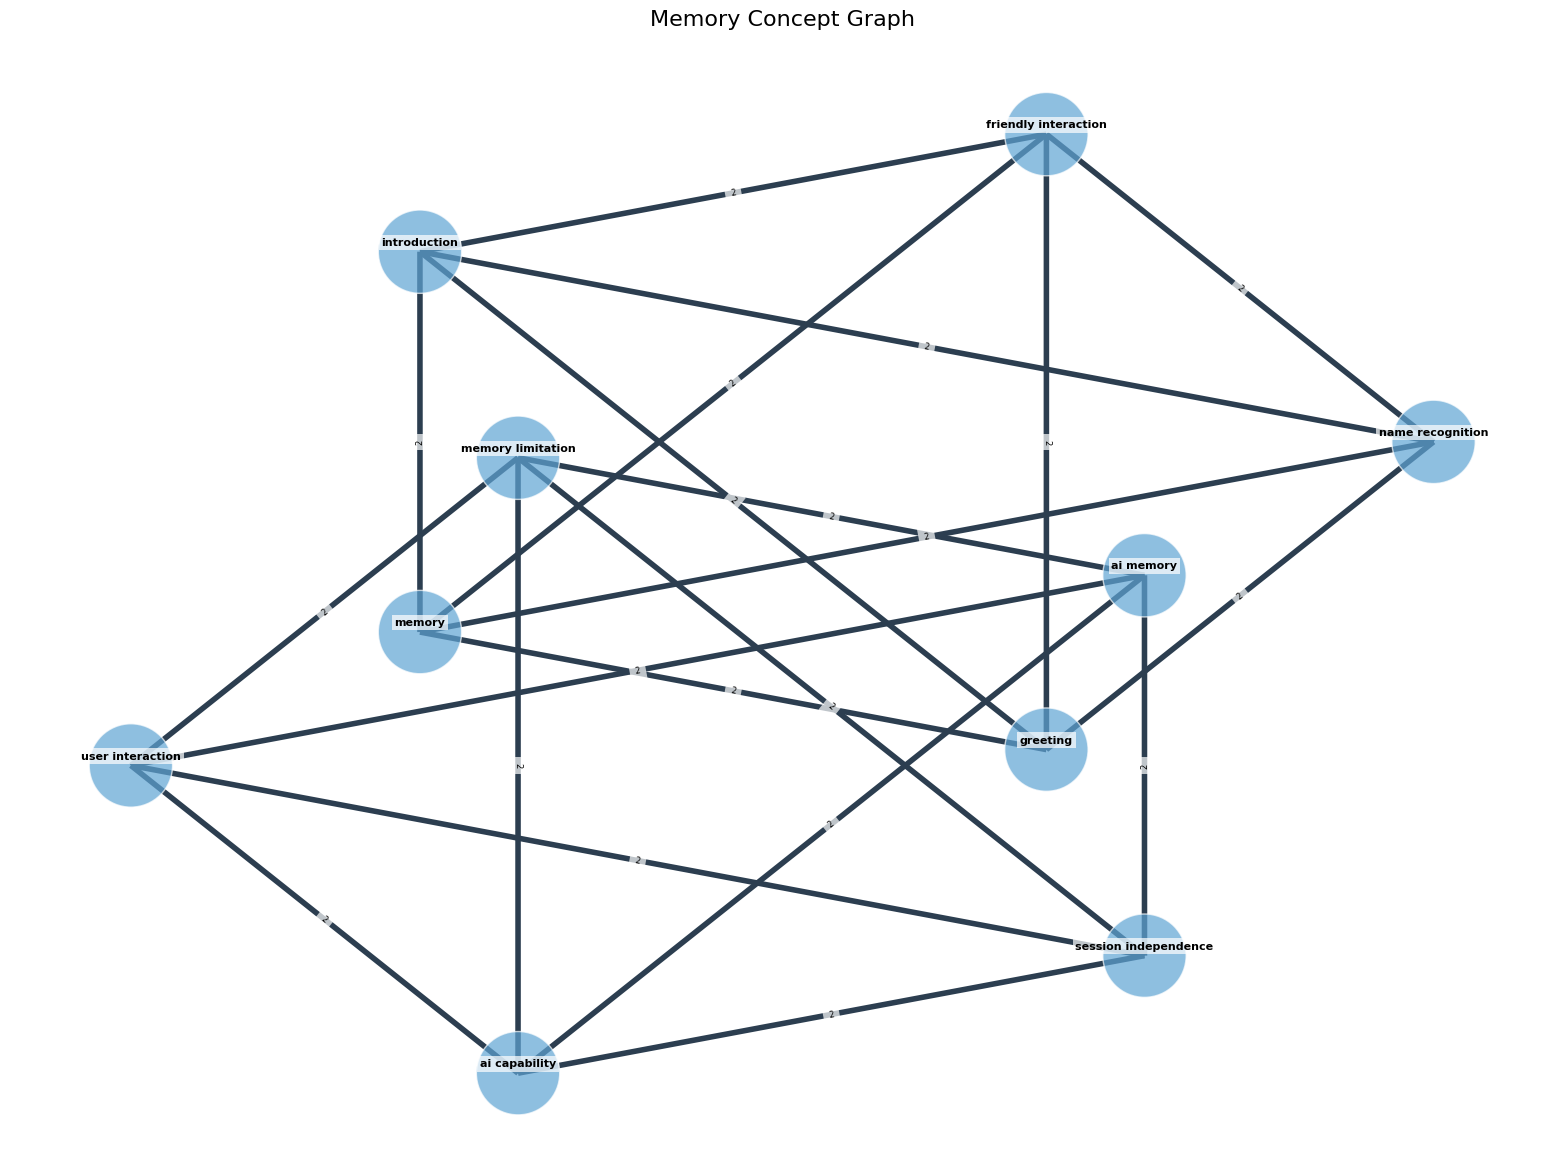
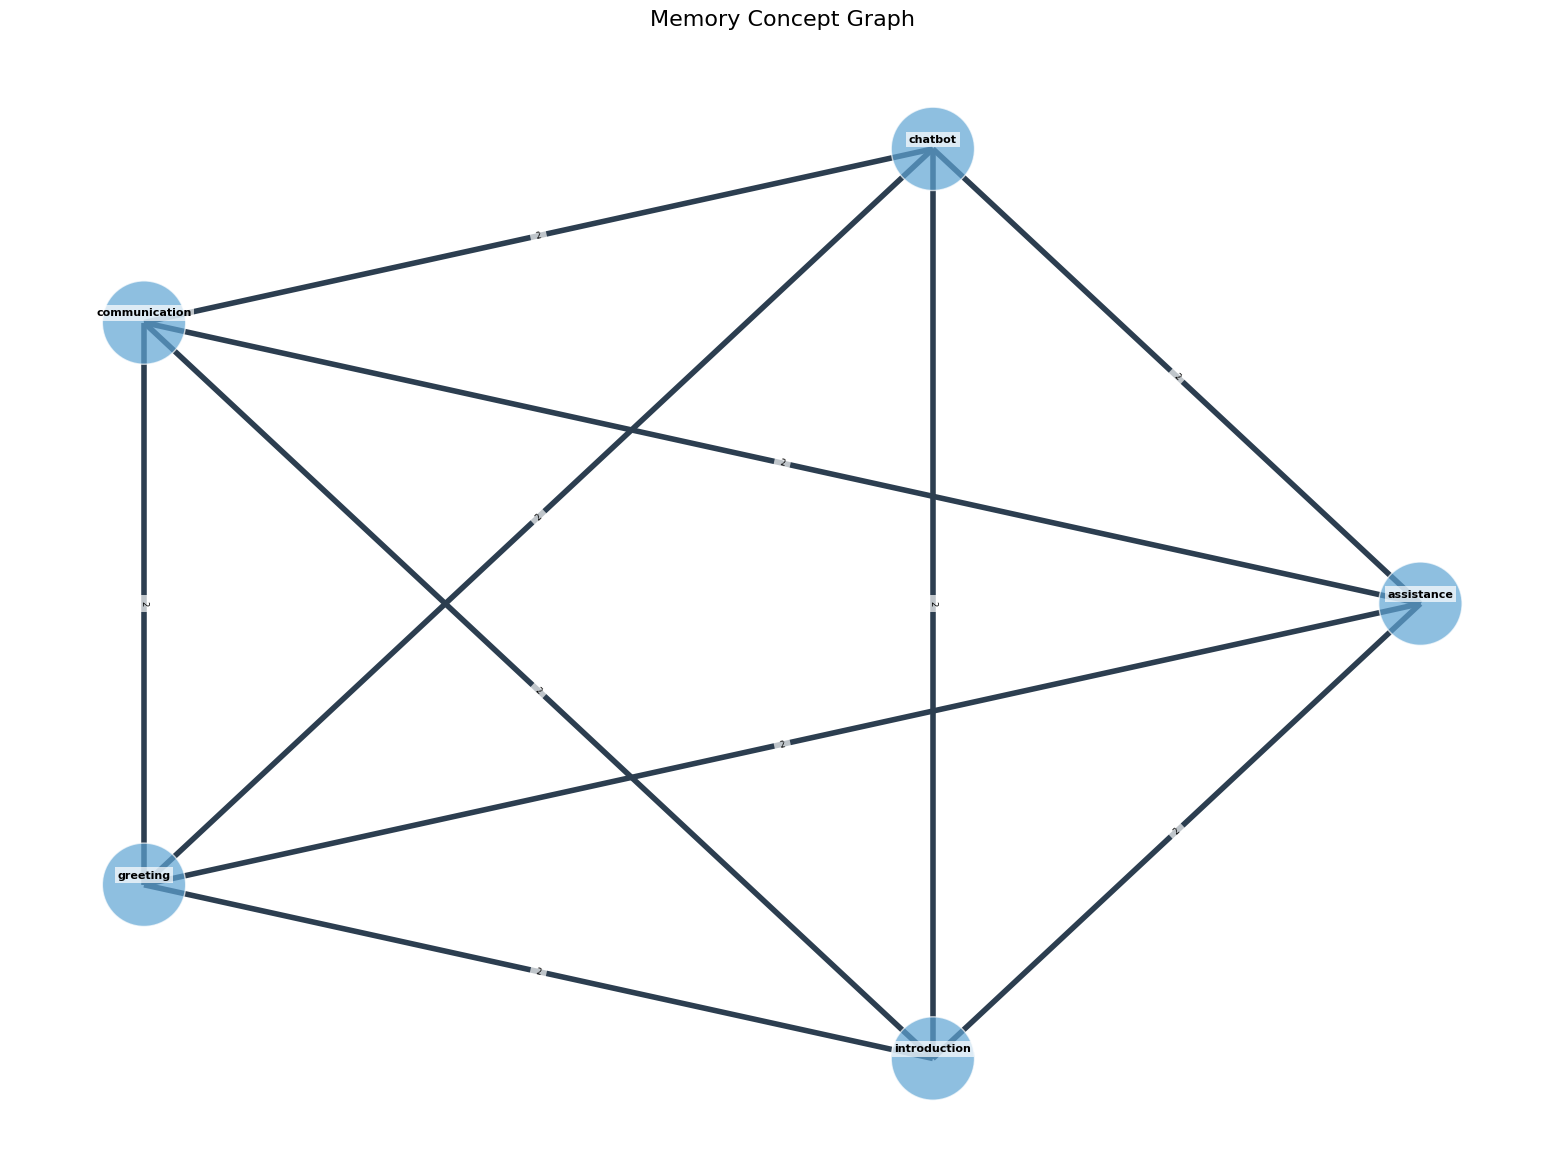
memory

diff --git a/src/flock/core/flock_agent.py b/src/flock/core/flock_agent.py
@@ -25,6 +25,7 @@ from flock.core.memory.memory_storage import (
     FilterOperation,
     FlockMemoryStore,
     MemoryEntry,
+    SemanticOperation,
 )
 from flock.core.mixin.dspy_integration import AgentType, DSPyIntegrationMixin
 from flock.core.mixin.prompt_parser import PromptParserMixin
@@ -245,7 +246,7 @@ class FlockAgent(BaseModel, ABC, PromptParserMixin, DSPyIntegrationMixin):
     )
     memory_mapping: str | None = Field(default=None)
     memory_store: FlockMemoryStore | None = Field(default=None)
-    memory_ops: dict[str, Any] | None = Field(default=None)
+    memory_ops: list | None = Field(default=None)
 
     # Lifecycle callback fields: if provided, these callbacks are used instead of overriding the methods.
     initialize_callback: Callable[[dict[str, Any]], Awaitable[None]] | None = (
@@ -473,6 +474,9 @@ class FlockAgent(BaseModel, ABC, PromptParserMixin, DSPyIntegrationMixin):
         """Check memory before main evaluation."""
         if not self.memory_enabled or not self.memory_store:
             return None
+
+        if not self.memory_ops:
+            self.memory_ops.append(SemanticOperation())
 
         try:
             # Convert input to embedding

diff --git a/src/flock/core/memory/memory_storage.py b/src/flock/core/memory/memory_storage.py
@@ -50,7 +50,7 @@ class SemanticOperation(MemoryOperation):
     """Semantic search operation."""
 
     type: Literal["semantic"] = "semantic"
-    threshold: float = 0.8
+    threshold: float = 0.5
     max_results: int = 10
     recency_filter: str | None = None  # e.g., "7d", "24h"
 
